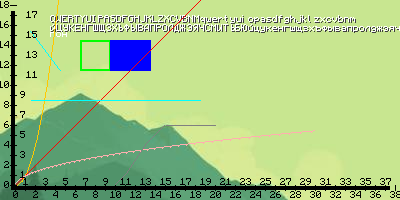
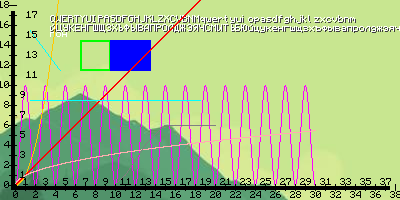
math helper(wip) and cattyn func and improved drawfunction

diff --git a/src/main/java/the/kis/devs/g2i/Main.java b/src/main/java/the/kis/devs/g2i/Main.java
@@ -27,6 +27,8 @@ public class Main {
 
     private static ArrayList<Pair<Integer, Integer>> line2(int x1, int y1, int x2, int y2, boolean outside, boolean connect) {
         ArrayList<Pair<Integer, Integer>> positions = new ArrayList<>();
+        positions.add(new Pair<>(x1, y1));
+        positions.add(new Pair<>(x2, y2));
         double xDiff = Math.abs(x1 - x2);
         double yDiff = Math.abs(y1 - y2);
         double d = xDiff > yDiff ? yDiff / xDiff : xDiff / yDiff;
@@ -124,6 +126,8 @@ public class Main {
         drawRect(80, 40, 110, 70, Color.GREEN.getRGB(), false, 1);
 
         drawRect(150, 40, 110, 70, Color.BLUE.getRGB(), true, 1);
+
+        drawFunction(Functions.Cattyn, new FunctionArguments(10, 0, 0), axisOffset + axisWidth, height - axisOffset - axisWidth, 300, 10, Color.MAGENTA.getRGB());
 
         drawFunction(Functions.Square, new FunctionArguments(0, 0, 0), axisOffset + axisWidth, height - axisOffset - axisWidth, 300, 10, Color.ORANGE.getRGB());
 
@@ -269,7 +273,7 @@ public class Main {
             float functionRelativeY = round(function.f(relativeX, args));
             float functionRelativeNextY = round(function.f(relativeNextX, args));
 
-            drawLine(zeroX + x, zeroY - Math.round(functionRelativeY * singleSection), zeroX + nextX, zeroY - Math.round(functionRelativeNextY * singleSection), color);
+            drawLine2(zeroX + x, zeroY - Math.round(functionRelativeY * singleSection), zeroX + nextX, zeroY - Math.round(functionRelativeNextY * singleSection), color);
         }
     }
 

diff --git a/src/main/java/the/kis/devs/g2i/Functions.java b/src/main/java/the/kis/devs/g2i/Functions.java
@@ -37,6 +37,18 @@ public enum Functions {
         float f(float x) {
             return f(x, 0, 0);
         }
+    },
+
+    Cattyn {
+        @Override
+        float f(float x, float... args) {
+            return /*MathHelper.clamp*/(float) ((1 - (.5 * Math.sin(Math.PI * x + Math.PI / 2) + .5)/*, args[0], args[1]*/) * args[0]);
+        }
+
+        @Override
+        float f(float x) {
+            return f(x, 1);
+        }
     }
     ;
 

diff --git a/src/main/java/the/kis/devs/g2i/MathHelper.java b/src/main/java/the/kis/devs/g2i/MathHelper.java
@@ -1,0 +1,16 @@
+package the.kis.devs.g2i;
+
+/**
+ * @author _kisman_
+ * @since 22:01 of 06.12.2022
+ */
+public class MathHelper {
+    public static float clamp(float a, float min, float max) {
+        System.out.println(a);
+        return Math.max(Math.min(a, min), max);
+    }
+
+    public static float clamp(double a, double min, double max) {
+        return clamp((float) a, (float) min, (float) max);
+    }
+}
